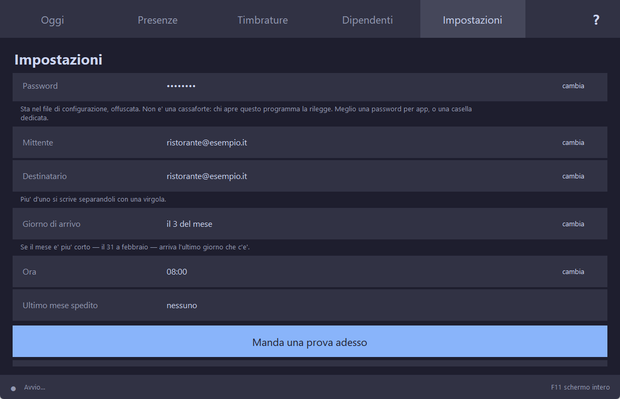
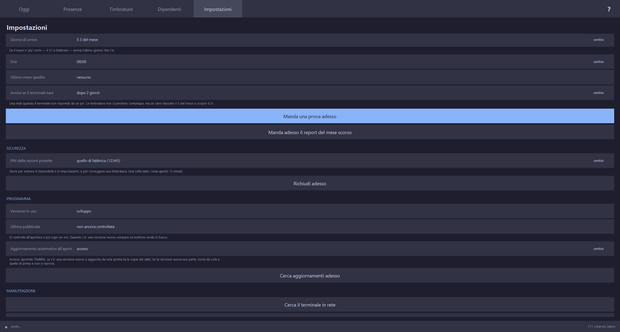
Date in formato italiano: giorno/mese/anno
Timbrature, orologio del terminale, ultima copia, ultimo mese spedito
("agosto 2026") e la colonna data del CSV.

Claude-Session: https://claude.ai/code/session_015FxNJ4qZnrQaWgejZTFHgg

diff --git a/gestione.py b/gestione.py
@@ -175,6 +175,15 @@ def data_lunga(d: dt.date) -> str:
     return f"{GIORNI[d.weekday()]} {d.day} {MESI[d.month]} {d.year}"
 
 
+def data_ora(testo: str) -> str:
+    """Un istante dell'archivio (2026-11-01 11:03:..) come lo si legge qui:
+    01/11/2026 11:03. Se non e' leggibile lo si mostra com'e'."""
+    try:
+        return f"{dt.datetime.fromisoformat(testo):%d/%m/%Y %H:%M}"
+    except (TypeError, ValueError):
+        return str(testo)[:16]
+
+
 # Se la configurazione risulta illeggibile, il file rotto viene messo da parte
 # con questo nome invece di essere sovrascritto dai valori di fabbrica.
 FILE_CONFIG_ROTTA = FILE_CONFIG + ".rotta"
@@ -2774,7 +2783,7 @@ class SchermataTimbrature(Schermata):
             riga = tk.Frame(self.lista.interno, bg=CARD)
             riga.pack(fill="x", pady=2, padx=8, ipady=10)
             pezzi = [
-                tk.Label(riga, text=quando[:16], bg=CARD, fg=colore,
+                tk.Label(riga, text=data_ora(quando), bg=CARD, fg=colore,
                          font=F_MONO + (("overstrike",) if annullata else ()),
                          width=17, anchor="w"),
                 tk.Label(riga, text=self.nomi.get(codice, f"Utente {codice}")
@@ -3036,6 +3045,15 @@ class SchermataImpostazioni(Schermata):
                      font=F_PICCOLO, anchor="w", wraplength=880,
                      justify="left").pack(fill="x", padx=20, pady=(0, 4))
 
+    @staticmethod
+    def _mese(etichetta: str) -> str:
+        """"2026-08" -> "agosto 2026"."""
+        try:
+            anno, mese = (int(x) for x in etichetta.split("-")[:2])
+            return f"{MESI[mese]} {anno}"
+        except (AttributeError, ValueError, IndexError):
+            return etichetta
+
     def entra(self):
         self.lista.svuota()
         cfg, r = self.app.cfg, self.app.regole
@@ -3190,7 +3208,7 @@ class SchermataImpostazioni(Schermata):
             giorni = (dt.date.today() - data).days
             quando = ("oggi" if giorni == 0 else "ieri" if giorni == 1
                       else f"{giorni} giorni fa")
-            self._voce("Ultima copia", f"{data} ({quando}), {byte / 1024:.0f} KB")
+            self._voce("Ultima copia", f"{data:%d/%m/%Y} ({quando}), {byte / 1024:.0f} KB")
             self._voce("Copie conservate", f"{len(elenco)} in {copie.cartella_copie(cfg['archivio'])}")
         tk.Label(self.lista.interno, bg=BG, fg=TESTO_TENUE, font=F_PICCOLO,
                  anchor="w", wraplength=880, justify="left",
@@ -3236,7 +3254,8 @@ class SchermataImpostazioni(Schermata):
                    "Se il mese e' piu' corto — il 31 a febbraio — arriva "
                    "l'ultimo giorno che c'e'.")
         self._voce("Ora", imp["ora"], self._cambia_ora_report)
-        self._voce("Ultimo mese spedito", imp["ultimo_inviato"] or "nessuno")
+        self._voce("Ultimo mese spedito",
+                   self._mese(imp["ultimo_inviato"]) or "nessuno")
         self._voce("Avvisa se il terminale tace",
                    "no" if not imp["allarme_giorni"]
                    else f"dopo {imp['allarme_giorni']} giorni",
@@ -4238,7 +4257,7 @@ class App(tk.Tk):
             self.dati_terminale["conteggi"] = dati.get("conteggi")
             if dati.get("orologio"):
                 self.dati_terminale["orologio"] = \
-                    dati["orologio"].strftime("%Y-%m-%d %H:%M:%S")
+                    dati["orologio"].strftime("%d/%m/%Y %H:%M:%S")
             self.spia.config(fg=VERDE)
             self.stato.config(
                 text=f"Collegato · ultimo scarico alle "

diff --git a/presenze.py b/presenze.py
@@ -564,7 +564,7 @@ def testo_csv(elenco: list[Giornata], nomi: dict[int, str]) -> str:
             orari += [ora(t.entrata), ora(t.uscita)]
         orari += [""] * (2 * coppie - len(orari))
         w.writerow([
-            g.data.isoformat(), g.employee_code,
+            f"{g.data:%d/%m/%Y}", g.employee_code,
             nomi.get(g.employee_code, f"Utente {g.employee_code}"),
             *orari,
             len([t for t in g.turni if t.completo]),
